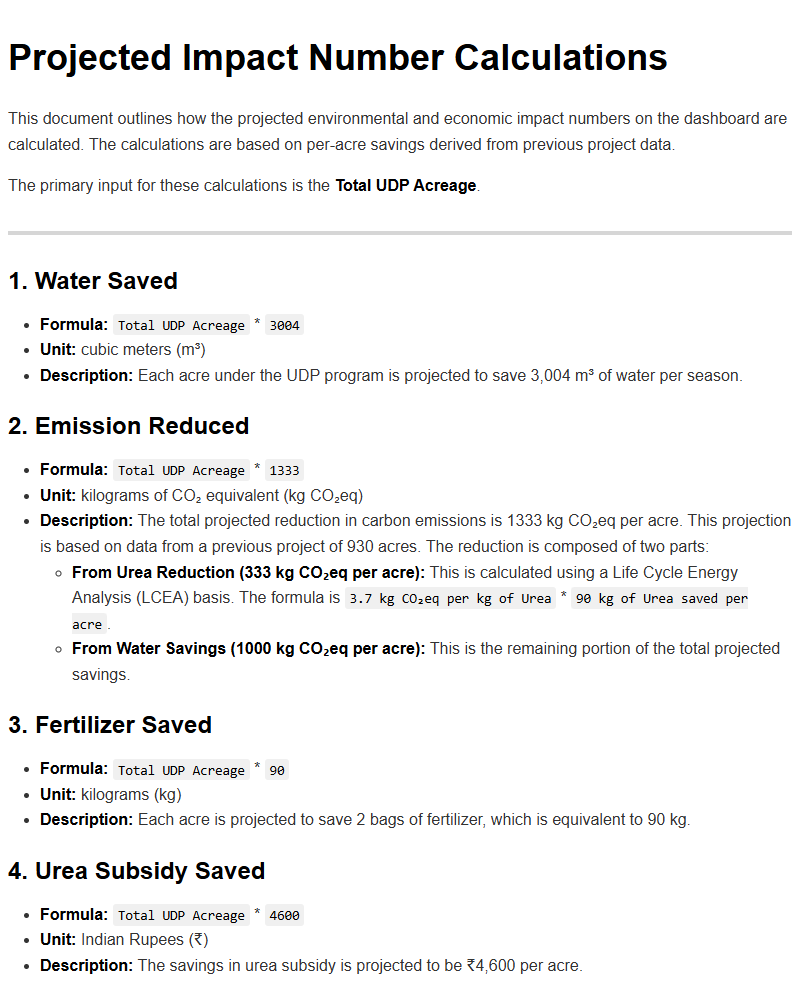
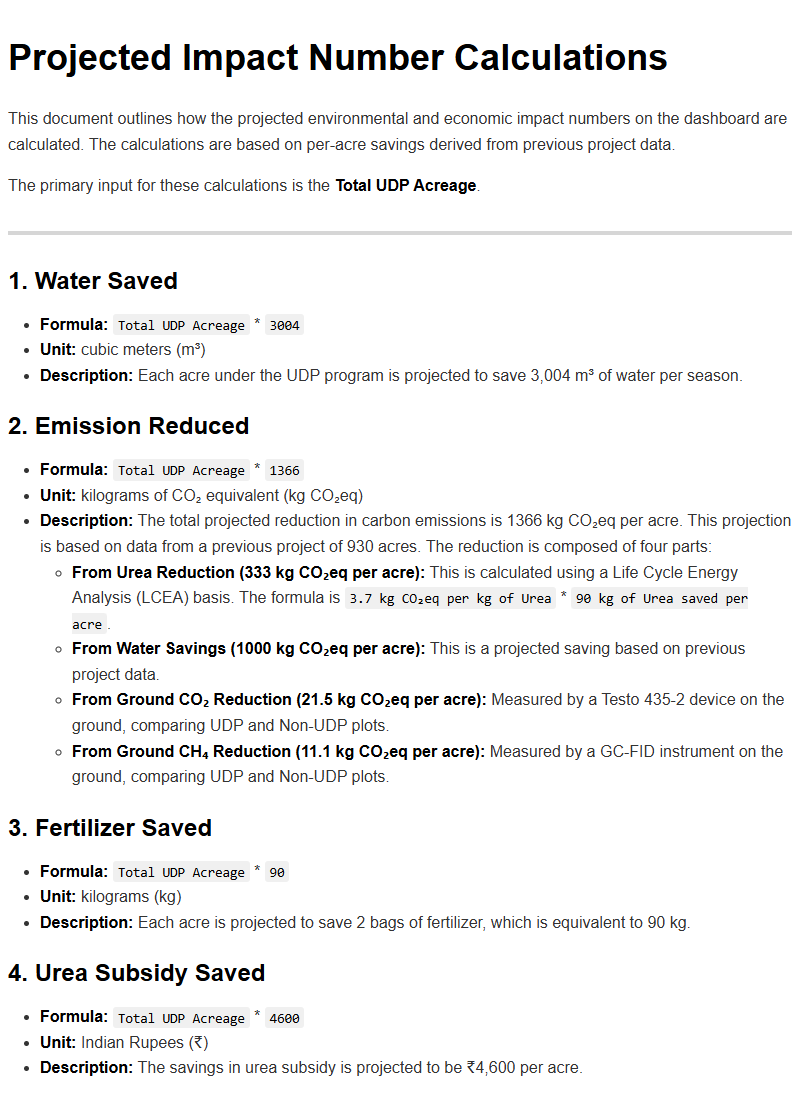
Improved emissions factors

Changed region(s): [[0.0, 0.0312, 1.0, 0.997]]

diff --git a/pages/index.js b/pages/index.js
@@ -78,7 +78,7 @@ export default function Index({ data }) {
   const user = useUser({ redirectTo: '/login' })
   const totalAcreage = data["impactData"]["acreage"]["total"];
   const waterSaved = totalAcreage * 3004;
-  const emissionReduced = totalAcreage * 1333;
+  const emissionReduced = totalAcreage * 1366;
   const fertilizerSaved = totalAcreage * 90;
   const ureaSubsidySaved = totalAcreage * 4600;
   // console.log("User2.")

diff --git a/info/imactNumbers.md b/info/imactNumbers.md
@@ -14,11 +14,13 @@ The primary input for these calculations is the **Total UDP Acreage**.
 
 ### 2. Emission Reduced
 
-- **Formula:** `Total UDP Acreage` * `1333`
+- **Formula:** `Total UDP Acreage` * `1366`
 - **Unit:** kilograms of CO₂ equivalent (kg CO₂eq)
-- **Description:** The total projected reduction in carbon emissions is 1333 kg CO₂eq per acre. This projection is based on data from a previous project of 930 acres. The reduction is composed of two parts:
+- **Description:** The total projected reduction in carbon emissions is 1366 kg CO₂eq per acre. This projection is based on data from a previous project of 930 acres. The reduction is composed of four parts:
   - **From Urea Reduction (333 kg CO₂eq per acre):** This is calculated using a Life Cycle Energy Analysis (LCEA) basis. The formula is `3.7 kg CO₂eq per kg of Urea` * `90 kg of Urea saved per acre`.
-  - **From Water Savings (1000 kg CO₂eq per acre):** This is the remaining portion of the total projected savings.
+  - **From Water Savings (1000 kg CO₂eq per acre):** This is a projected saving based on previous project data.
+  - **From Ground CO₂ Reduction (21.5 kg CO₂eq per acre):** Measured by a Testo 435-2 device on the ground, comparing UDP and Non-UDP plots.
+  - **From Ground CH₄ Reduction (11.1 kg CO₂eq per acre):** Measured by a GC-FID instrument on the ground, comparing UDP and Non-UDP plots.
 
 ### 3. Fertilizer Saved
 
